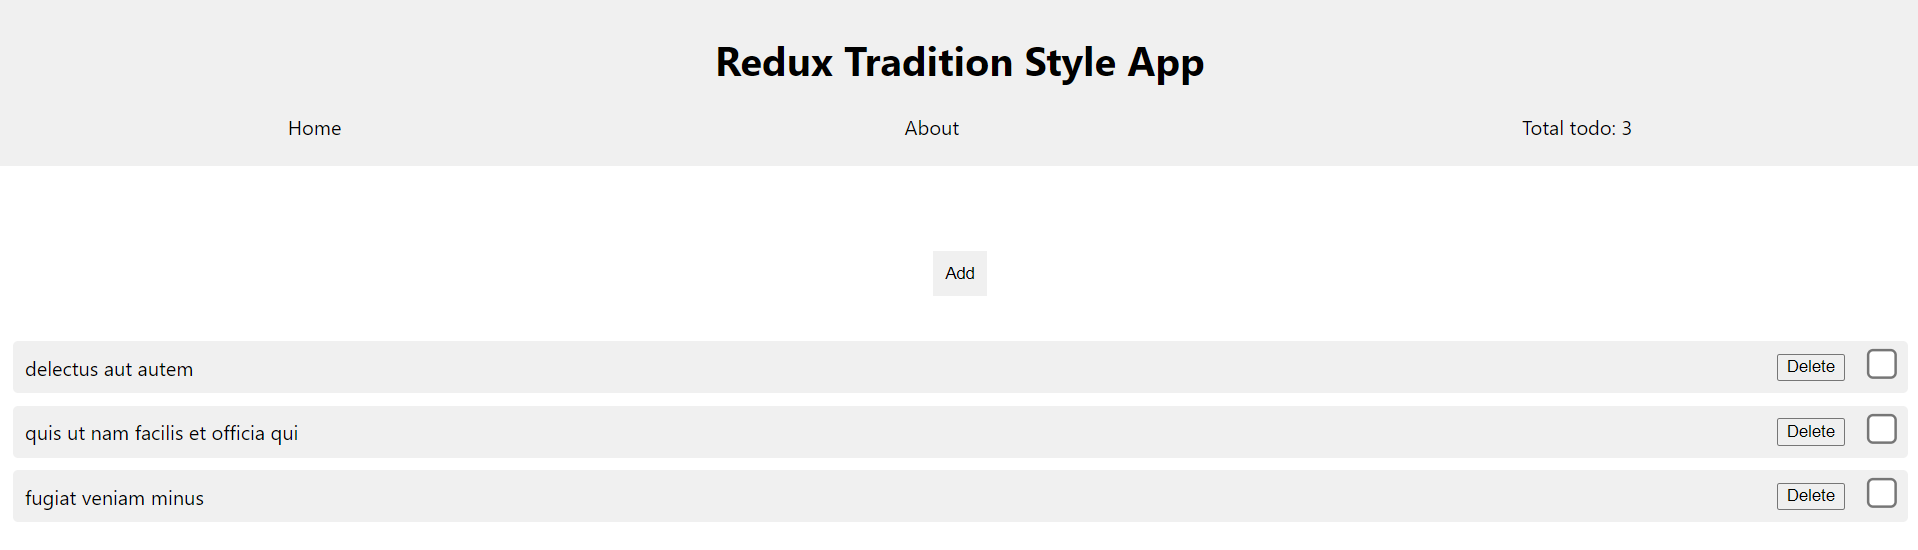
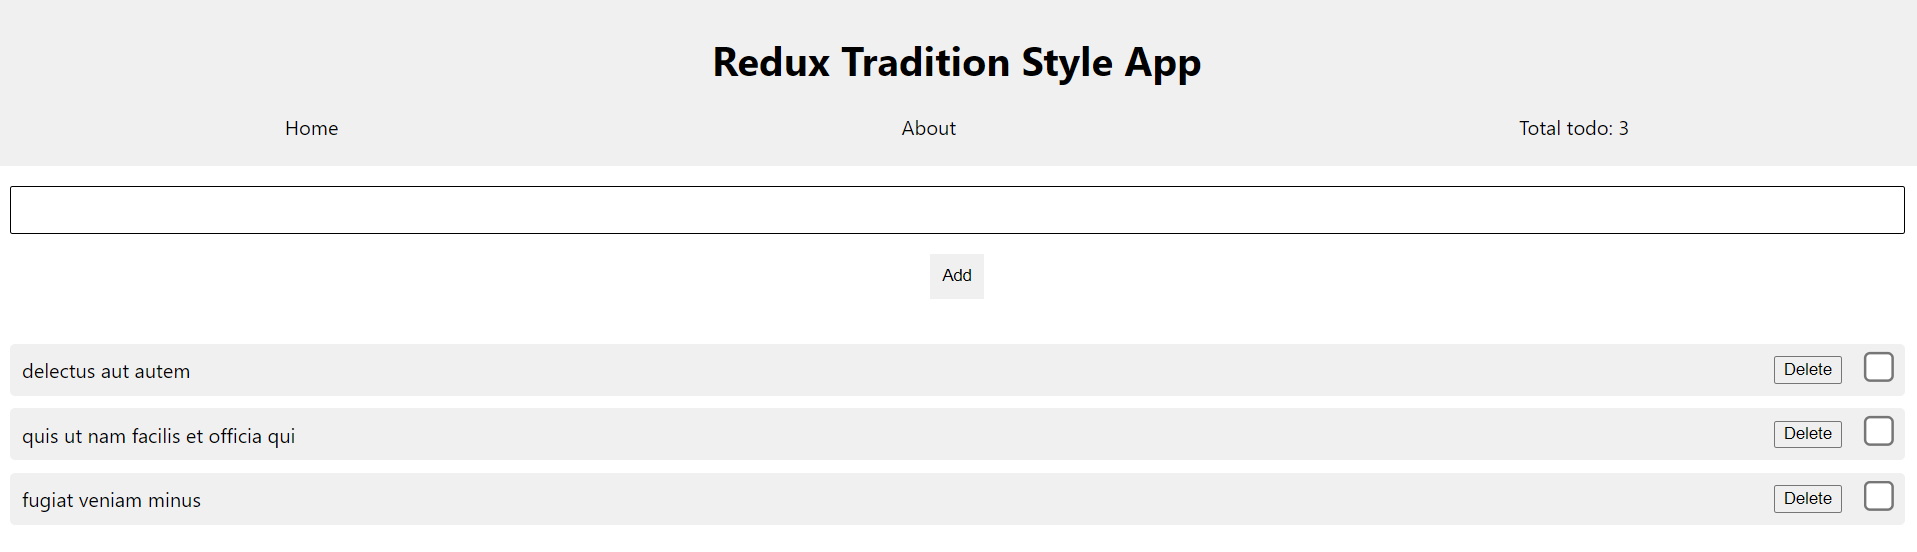
fix: update layout

diff --git a/src/App.css b/src/App.css
@@ -64,7 +64,8 @@ input[type='text'] {
     box-sizing: border-box;
     padding: 10px;
     margin: 6px 0;
-    border: 0;
+    border: 1px solid;
+    border-radius: 2px;
 }
 
 input[type='submit'] {

diff --git a/README.md b/README.md
@@ -1,4 +1,6 @@
-# Learn redux traditional style through todo app
+# Redux Traditional Style
+
+Learn redux traditional style through todo app.
 
 ![Web's preview](./public/banner.png)
 
